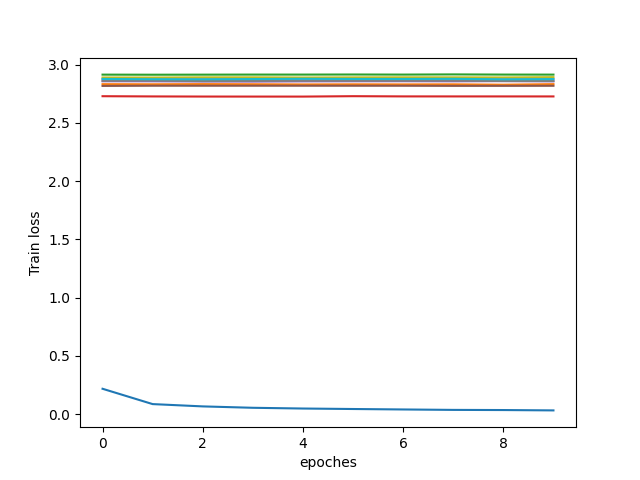
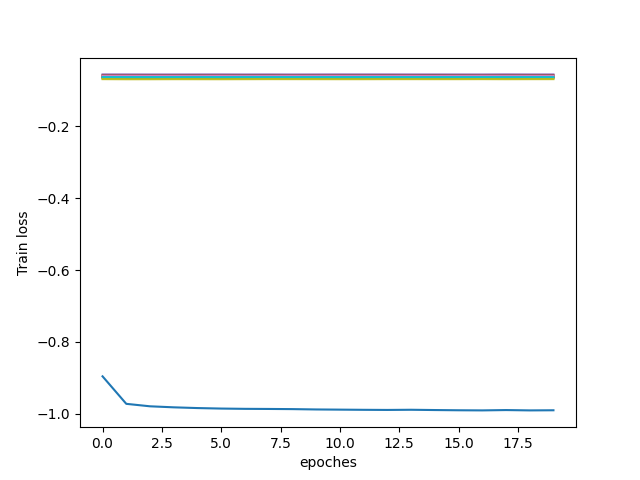
update

diff --git a/private_model_femnist_on_FE_and_MN.py b/private_model_femnist_on_FE_and_MN.py
@@ -2,7 +2,7 @@ from  data_utils import  get_public_dataset, get_private_dataset_balanced,FEMNIS
 from  models import CNN_2layer_fc_model,CNN_3layer_fc_model
 import os
 import torch
-from torch.utils.data import DataLoader,Dataset
+from torch.utils.data import DataLoader,Dataset,ConcatDataset
 from torch import nn
 import matplotlib.pyplot as plt
 from utils import get_model_list,EarlyStopping
@@ -27,6 +27,8 @@ def private_dataset_train(args):
     # 用于初始化模型的部分
     # 获得FEMNIST数据集！
     train_dataset,test_dataset = get_private_dataset_balanced(args)
+    train_MNIST_dataset, _ = get_public_dataset(args)
+
     user_groups = FEMNIST_iid(train_dataset, args.user_number)
 
     models = {"2_layer_CNN": CNN_2layer_fc_model,  # 字典的函数类型
@@ -38,12 +40,14 @@ def private_dataset_train(args):
         #model_list,model_type_list = get_model_list('Src/EmptyModel',modelsindex,models)
     else:
         model_list,model_type_list = get_model_list(args.privateurl,modelsindex,models)
-        #model_list,model_type_list = get_model_list('Src/EmptyModelFemnist',modelsindex,models)
+        #model_list,model_type_list = get_model_list('Src/EmptyModelFemnistandMnist',modelsindex,models)
 
 
     private_model_private_dataset_train_losses = []
     private_model_private_dataset_validation_losses = []
+
     for n, model in enumerate(model_list):
+        train_MNIST_Random_dataset,_ = torch.utils.data.random_split(train_MNIST_dataset, [18,59982])
         print('train Local Model {} on Private Dataset'.format(n))
         model.to(device)
         if args.optimizer == 'sgd':
@@ -52,13 +56,17 @@ def private_dataset_train(args):
         elif args.optimizer == 'adam':
             optimizer = torch.optim.Adam(model.parameters(), lr=args.lr,
                                      weight_decay=1e-4)
-        trainloader = DataLoader(DatasetSplit(train_dataset,list(user_groups[n])),batch_size=32,shuffle=True)
+        concateDatasetdemo = ConcatDataset([train_MNIST_Random_dataset,DatasetSplit(train_dataset,list(user_groups[n]))])
+        trainloader = DataLoader(concateDatasetdemo,batch_size=40,shuffle=False)
+        # trainloader_MNIST = DataLoader(train_MNIST_Random_dataset,batch_size=5,shuffle=True)
         testloader = DataLoader(test_dataset,batch_size=128, shuffle=True)
         criterion = nn.NLLLoss().to(device)
         train_epoch_losses = []
         validation_epoch_losses = []
         print('Begin Private Training')
-        earlyStopping = EarlyStopping(patience=5,verbose=True,path='Src/EmptyModelFemnist/LocalModel{}Type{}.pkl'.format(n,model_type_list[n],args.privateepoch))
+        earlyStopping = EarlyStopping(patience=5,verbose=True,path='Src/PrivateModelNew/LocalModel{}Type{}.pkl'.format(n,model_type_list[n],args.privateepoch))
+        #earlyStopping = EarlyStopping(patience=5,verbose=True,path='Src/EmptyModelFemnistandMnist/LocalModel{}Type{}.pkl'.format(n,model_type_list[n],args.privateepoch))
+
         for epoch in range(args.privateepoch):
             model.train()
             train_batch_losses = []
@@ -74,6 +82,18 @@ def private_dataset_train(args):
                         n,model_type_list[n],epoch + 1, batch_idx * len(images), len(trainloader.dataset),
                         100. * batch_idx / len(trainloader), loss.item()))
                 train_batch_losses.append(loss.item())
+            # for batch_idx, (images, labels) in enumerate(trainloader_MNIST):
+            #     images,labels = images.to(device),labels.to(device)
+            #     optimizer.zero_grad()
+            #     outputs = model(images)
+            #     loss = criterion(outputs,labels)
+            #     loss.backward()
+            #     optimizer.step()
+            #     if batch_idx % 5 ==0:
+            #         print('Local Model {} Type {} Train Epoch: {} [{}/{} ({:.0f}%)]\tLoss: {:.6f}'.format(
+            #             n,model_type_list[n],epoch + 1, batch_idx * len(images), len(trainloader.dataset),
+            #             100. * batch_idx / len(trainloader), loss.item()))
+            #     train_batch_losses.append(loss.item())
             loss_avg = sum(train_batch_losses)/len(train_batch_losses)
             train_epoch_losses.append(loss_avg)
 
@@ -94,8 +114,6 @@ def private_dataset_train(args):
             if earlyStopping.early_stop:
                 print("Early stopping")
                 break
-
-        # torch.save(model.state_dict(),'Src/PrivateModel/LocalModel{}Type{}.pkl'.format(n,model_type_list[n],args.privateepoch))
         private_model_private_dataset_train_losses.append(train_epoch_losses)
         private_model_private_dataset_validation_losses.append(validation_epoch_losses)
 
@@ -105,14 +123,16 @@ def private_dataset_train(args):
         print(val)
         plt.plot(range(len(val)),val,label='model :'+str(i))
     plt.legend(loc='best')
-    plt.title('private_model_private_dataset_train_demo_losses')
+    plt.title('private_model_private_dataset_MNIST_and_FEMNIST_train_losses')
+    #plt.title('private_model_private_dataset_MNIST_and_FEMNIST_train_demo_losses')
     plt.xlabel('epoches')
     plt.ylabel('Train loss')
     x_major_locator = MultipleLocator(1)# 把x轴的刻度间隔设置为1，并存在变量里
     ax = plt.gca()# ax为两条坐标轴的实例
     ax.xaxis.set_major_locator(x_major_locator)# 把x轴的主刻度设置为1的倍数
     plt.xlim(0, args.privateepoch)
-    plt.savefig('Src/Figure/private_model_private_dataset_train_demo_losses.png')
+    plt.savefig('Src/Figure/private_model_private_dataset_MNIST_and_FEMNIST_train_losses.png')
+    #plt.savefig('Src/Figure/private_model_private_dataset_MNIST_and_FEMNIST_train_demo_losses.png')
     plt.show()
 
     plt.figure()
@@ -120,14 +140,16 @@ def private_dataset_train(args):
         print(val)
         plt.plot(range(len(val)), val, label='model :' + str(i))
     plt.legend(loc='best')
-    plt.title('private_model_private_dataset_validation_demo_losses')
+    plt.title('private_model_private_dataset_MNIST_and_FEMNIST_validation_losses')
+    plt.title('private_model_private_dataset_MNIST_and_FEMNIST_validation_demo_losses')
     plt.xlabel('epoches')
     plt.ylabel('Validation loss')
     x_major_locator = MultipleLocator(1)  # 把x轴的刻度间隔设置为1，并存在变量里
     ax = plt.gca()  # ax为两条坐标轴的实例
     ax.xaxis.set_major_locator(x_major_locator)  # 把x轴的主刻度设置为1的倍数
     plt.xlim(0, args.privateepoch)
-    plt.savefig('Src/Figure/private_model_private_dataset_validation_demo_losses.png')
+    plt.savefig('Src/Figure/private_model_private_dataset_MNIST_and_FEMNIST_validation_losses.png')
+    #plt.savefig('Src/Figure/private_model_private_dataset_MNIST_and_FEMNIST_validation_demo_losses.png')
     plt.show()
 
     print('End Private Training')

diff --git a/data_utils.py b/data_utils.py
@@ -186,15 +186,35 @@ def MNIST_random(dataset,epochs):
         all_idxs = list(set(all_idxs)-dict_epoch[i])
     return dict_epoch
 
+
 class args:
     dataset = 'mnist'
     private_dataset = 'FEMNIST'
+    user_number = 10
 
 # get_public_dataset(args)
 # init_private_dataset(args)
 # # data_train,data_test = get_private_dataset(args)
-
+# import torch
+# class DatasetSplit(Dataset):
+#     """
+#     An abstract Dataset class wrapped around Pytorch Dataset class
+#     """
+#     def __init__(self,dataset,idxs):
+#         self.dataset = dataset
+#         self.idxs = [int(i) for i in idxs]
+#     def __len__(self):
+#         return len(self.idxs)
+#
+#     def __getitem__(self, item):
+#         image,label = self.dataset[self.idxs[item]]
+#         return torch.tensor(image),torch.tensor(label)
 # data_train,data_test = get_private_dataset_balanced(args)
+# user_groups = FEMNIST_iid(data_train, args.user_number)
+# trainloader = DataLoader(DatasetSplit(data_train, list(user_groups[1])), batch_size=5, shuffle=True)
+# DataLoader(DatasetSplit(data_train, list(user_groups[0])), batch_size=5, shuffle=True)
+#
+# print(len(trainloader))
 # print(FEMNIST_iid(data_train,10)[9])
 # for item in FEMNIST_iid(data_train,10)[9]:
 #     print(data_train[item])
@@ -205,6 +225,7 @@ class args:
 #         dict_private_index.setdefault(data_train[i][1], []).append(i)
 #     return dict_private_index
 # print(generateIndex(data_train))
+
 # args = args_parser()
 # if  os.path.exists(args.private_dataset_index):
 #     print('private_dataset_index exist ~ ')
@@ -216,3 +237,23 @@ class args:
 #         setvolume = setvolume.union(dict_users[key])
 #     for key in dict_users.keys():
 #         dict_users[key]=setvolume
+import scipy.io as sio
+if __name__ == '__main__':
+    print('tedt ')
+    mat = sio.loadmat('Data/emnist-letters.mat')
+    data = mat['dataset']
+    writer_ids_train = data['train'][0, 0]['writers'][0, 0]
+    writer_ids_train = np.squeeze(writer_ids_train)
+    X_train = data['train'][0, 0]['images'][0, 0]
+    X_train = X_train.reshape((X_train.shape[0], 28, 28), order="F")
+    y_train = data['train'][0, 0]['labels'][0, 0]
+    y_train = np.squeeze(y_train)
+    y_train -= 1  # y_train is zero-based
+
+    writer_ids_test = data['test'][0, 0]['writers'][0, 0]
+    writer_ids_test = np.squeeze(writer_ids_test)
+    X_test = data['test'][0, 0]['images'][0, 0]
+    X_test = X_test.reshape((X_test.shape[0], 28, 28), order="F")
+    y_test = data['test'][0, 0]['labels'][0, 0]
+    y_test = np.squeeze(y_test)
+    y_test -= 1  # y_test is zero-based

diff --git a/utils.py b/utils.py
@@ -1,5 +1,6 @@
 import torch
 import os
+import numpy as np
 
 def get_model_list(url,modelsindex,models):
     model_list = []
@@ -24,3 +25,51 @@ def get_model_list_test_acuracy(url,modelsindex,models):
             net.load_state_dict(torch.load(os.path.join(root, name)))
             model_list.append(net)
     return model_list
+
+class EarlyStopping:
+    """Early stops the training if validation loss doesn't improve after a given patience."""
+    def __init__(self, patience=7, verbose=False, delta=0, path='checkpoint.pkl', trace_func=print):
+        """
+        Args:
+            patience (int): How long to wait after last time validation loss improved.
+                            Default: 7
+            verbose (bool): If True, prints a message for each validation loss improvement.
+                            Default: False
+            delta (float): Minimum change in the monitored quantity to qualify as an improvement.
+                            Default: 0
+            path (str): Path for the checkpoint to be saved to.
+                            Default: 'checkpoint.pt'
+            trace_func (function): trace print function.
+                            Default: print
+        """
+        self.patience = patience
+        self.verbose = verbose
+        self.counter = 0
+        self.best_score = None
+        self.early_stop = False
+        self.val_loss_min = np.Inf
+        self.delta = delta
+        self.path = path
+        self.trace_func = trace_func
+    def __call__(self, val_loss, model):
+
+        score = -val_loss
+
+        if self.best_score is None:
+            self.best_score = score
+            self.save_checkpoint(val_loss, model)
+        elif score < self.best_score + self.delta:
+            self.counter += 1
+            self.trace_func(f'EarlyStopping counter: {self.counter} out of {self.patience}')
+            if self.counter >= self.patience:
+                self.early_stop = True
+        else:
+            self.best_score = score
+            self.save_checkpoint(val_loss, model)
+            self.counter = 0
+    def save_checkpoint(self, val_loss, model):
+        '''Saves model when validation loss decrease.'''
+        if self.verbose:
+            self.trace_func(f'Validation loss decreased ({self.val_loss_min:.6f} --> {val_loss:.6f}).')
+        torch.save(model.state_dict(), self.path)
+        self.val_loss_min = val_loss

diff --git a/private_model_femnist_Accuracy.py b/private_model_femnist_Accuracy.py
@@ -15,19 +15,20 @@ def test_accuracy_privateinitialmodel(args):
               "3_layer_CNN": CNN_3layer_fc_model}
     modelsindex = ["2_layer_CNN", "3_layer_CNN"]
     model_list = get_model_list_test_acuracy(args.privateurl, modelsindex, models)
+    #model_list = get_model_list_test_acuracy('Src/PrivateModelNew', modelsindex, models)
+    #model_list = get_model_list_test_acuracy('Src/EmptyModelFemnist', modelsindex, models)
+    #model_list = get_model_list_test_acuracy('Src/EmptyModelFemnistandMnist', modelsindex, models)
     accuracy_list = []
     for n, model in enumerate(model_list):
         print('Test accuracy of Local Model {}'.format(n))
         model.to(device)
         model.eval()
         loss, total, correct = 0.0, 0.0, 0.0
-        criterion = nn.NLLLoss().to(device)
 
         testloader = DataLoader(test_dataset, batch_size=128, shuffle=False)
         for batch_idx, (images, labels) in enumerate(testloader):
             images, labels = images.to(device), labels.to(device)
             outputs = model(images)
-            batch_loss = criterion(outputs, labels)
             _, pred_labels = torch.max(outputs, 1)
             pred_labels = pred_labels.view(-1)
             correct += torch.sum(torch.eq(pred_labels, labels)).item()

diff --git a/option.py b/option.py
@@ -8,9 +8,9 @@ def args_parser():
     parser.add_argument('--gpu',type=int,default=1,help="choose to use GPU or CPU")
     parser.add_argument('--dataset',type=str,default='mnist',help='name of dataset')
     parser.add_argument('--user_number',type=int,default=10,help='number of user join in Federated Learning')
-    parser.add_argument('--lr',type=float,default=0.0001,help='learning rate')
+    parser.add_argument('--lr',type=float,default=0.01,help='learning rate')
     parser.add_argument('--optimizer',type=str,default='adam',help='type of optimizer')
-    parser.add_argument('--epoch',type=int,default=10,help='training epoch')
+    parser.add_argument('--epoch',type=int,default=20,help='training epoch')
 
     # pretrained_public_mnist_continue
     parser.add_argument('--initialurl',type=str,default='Src\Model',help='initial url for saving initial models')

diff --git a/pretrained_public_femnist_initial.py b/pretrained_public_femnist_initial.py
@@ -1,0 +1,19 @@
+import  torch
+from  data_utils import  get_public_dataset
+from  models import CNN_2layer_fc_model,CNN_3layer_fc_model
+import random
+from torch.utils.data import DataLoader
+import matplotlib.pyplot as plt
+from option import args_parser
+
+if __name__ == '__main__':
+    args = args_parser()
+    models = {"2_layer_CNN": CNN_2layer_fc_model,  # 字典的函数类型
+          "3_layer_CNN": CNN_3layer_fc_model}
+    modelsindex = ["2_layer_CNN","3_layer_CNN"]
+    pretrain_models = []
+    pretrain_modelsindex = [1,1,1,0,1,1,0,0,1,0]
+    for index,item in enumerate(pretrain_modelsindex):
+        print(item)
+        tempmodel = models[modelsindex[item]]()
+        torch.save(tempmodel.state_dict(), 'Src/EmptyModel/LocalModel{}Type{}.pkl'.format(index, pretrain_modelsindex[index]))
